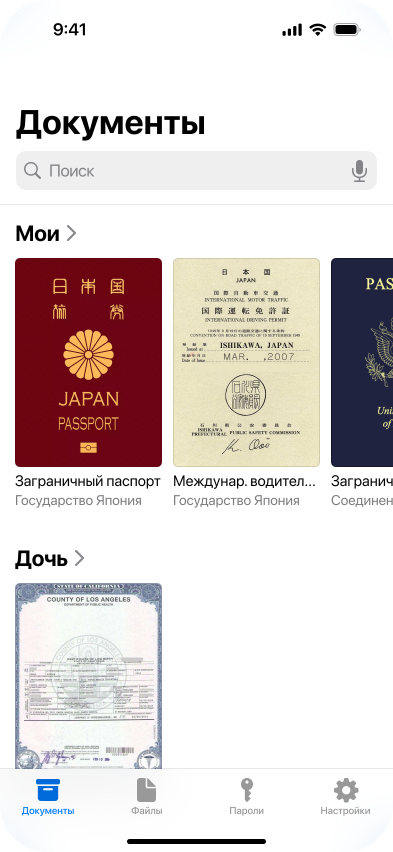
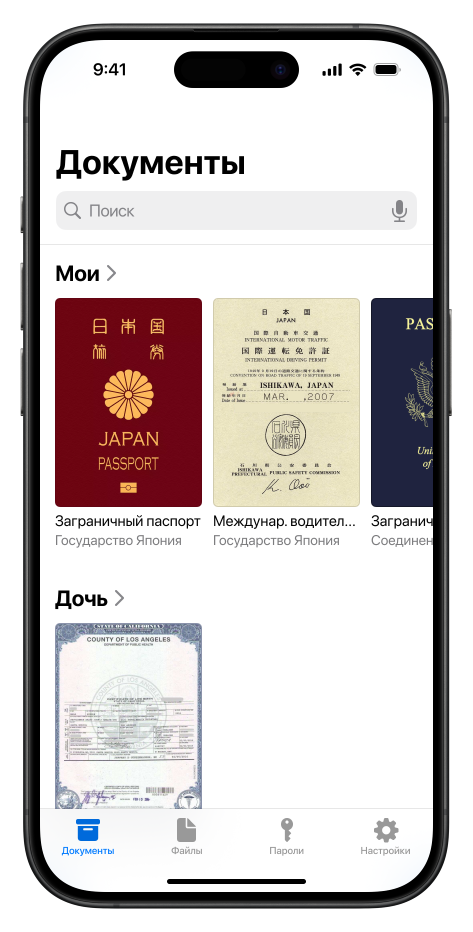
Реализовал структуру 3 фрейма

Changed region(s): [[0.0305, 0.0, 1.0, 1.0], [0.7634, 0.8545, 0.855, 0.9155], [0.8244, 0.2136, 0.855, 0.2441]]

diff --git a/index.html b/index.html
@@ -54,8 +54,9 @@
     <div class="frame-1">
       <div class="container text-center">
         <h1 class="text-white brand-title">DocSphere</h1>
-        <img src="/img/ui-1.jpg" class="phone-ui img-fluid d-block mx-auto" alt="...">
-        <img src="/img/i-phone-15-pro-black-titanium-portrait.png" class="phone-border img-fluid d-block mx-auto" alt="...">
+        <div class="phone-f1">
+          <img src="/img/ui-1.png" class="phone-ui img-fluid d-block mx-auto" alt="спасите-помогите css душнила">
+        </div>
 
         <div class="container info">
           <h1 class="text-white info-title">Всегда с собой.</h1>
@@ -68,45 +69,40 @@
     <div class="frame-2">
       <div class="container text-center card-view">
 
-        <div class="row row-cols-1 row-cols-md-2 g-4">
+        <div class="row row-cols-1 row-cols-md-2 g-4 ">
           <div class="col">
-            <div class="card">
+            <div class="card h-100 mx-auto">
               <div class="card-body">
-                <h5 class="card-title">Заголовок карточки</h5>
-                <p class="card-text">Это более длинная карта С вспомогательным текстом ниже в качестве естественного перехода к дополнительному контенту. Этот контент немного длиннее.</p>
+                <h5 class="card-title"><span style="color: #007BFF;">AES-256.</span> Безопасность заложена в ДНК.</h5>
               </div>
+              <img src="/img/card-1.svg" class="img-fluid float-start card-1" alt="...">
             </div>
           </div>
           <div class="col">
-            <div class="card">
+            <div class="card h-100 mx-auto">
               <div class="card-body">
-                <h5 class="card-title">Заголовок карточки</h5>
-                <p class="card-text">Это более длинная карта С вспомогательным текстом ниже в качестве естественного перехода к дополнительному контенту. Этот контент немного длиннее.</p>
+                <h5 class="card-title"><span style="color: #007BFF;">Цифровая подпись.</span> Ключ к Вашей жизни.</h5>
               </div>
+              <img src="/img/card-2.svg" class="img-fluid mx-auto card-2" alt="...">
             </div>
           </div>
           <div class="col">
-            <div class="card">
+            <div class="card h-100 mx-auto">
               <div class="card-body">
-                <h5 class="card-title">Заголовок карточки</h5>
-                <p class="card-text">Это более длинная карта С вспомогательным текстом ниже в качестве естественного перехода к дополнительному контенту.</p>
+                <h5 class="card-title"><span style="color: #007BFF;">Приватность.</span> Данными владеете <br>только Вы.</h5>
               </div>
+              <img src="/img/card-3.svg" class="img-fluid card-3" alt="...">
             </div>
           </div>
           <div class="col">
-            <div class="card">
+            <div class="card h-100 mx-auto">
               <div class="card-body">
-                <h5 class="card-title">Заголовок карточки</h5>
-                <p class="card-text">Это более длинная карта С вспомогательным текстом ниже в качестве естественного перехода к дополнительному контенту. Этот контент немного длиннее.</p>
+                <h5 class="card-title"><span style="color: #007BFF;">Лицо — ваш ключ ко всему.</span> Путь так и останется.</h5>
               </div>
+              <img src="/img/card-4.svg" class="img-fluid float-end card-4" alt="...">
             </div>
           </div>
         </div>
-
-          <!-- <p>AES-256. Безопасность заложена в ДНК.</p>
-          <p>Цифровая подпись. Ключ к Вашей жизни.</p>
-          <p>Приватность. Данными владеете только Вы.</p>
-          <p>Лицо — ваш ключ ко всему. Путь так и останется.</p> -->
       </div>
     </div>
 
@@ -119,6 +115,18 @@
   </main>
 
   <footer>
+    <div class="container">
+      <div class="row row-cols-1 row-cols-md-5 g-4 ">
+        <div class="col">
+          <h3>Приложение</h3>
+        </div>
+        <div class="col">
+          <h3>Поддержка</h3>
+        </div>
+        <div class="col">
+          <h3>Социальные сети</h3>
+        </div>
+    </div>
   </footer>
 
   <!-- Bootstrap JavaScript Libraries -->

diff --git a/css/style.css b/css/style.css
@@ -61,13 +61,9 @@ main {
   background: #006adb;
 }
 
-.phone-border{
-  margin-top: -892px;
-}
-
-.phone-ui {
-  margin-top: -55px;
-  border-radius: 48px;
+.phone-ui{
+  margin-top: -80px;
+  max-width: 400px;
 }
 
 .info {
@@ -126,6 +122,14 @@ main {
     font-size: 115px;
     padding-top: 50px;
   }
+
+  .card-view {
+    width: 950px;
+  }
+
+  .card {
+    max-width: 450px;
+  }
 }
 
 .info-paragraph {
@@ -157,16 +161,67 @@ main {
   background: #191A1D;
 }
 
+.col {
+  padding-left: 0px;  
+}
+
+.card-body {
+  padding: 0px;
+}
+
 .card-view {
-  padding: 105px;
-  max-width: 995px;
+  padding-top: 100px;
+  padding-bottom: 100px;
+  /* padding-left: 105px; */
+  max-width: 1130px;
 }
 
 .card {
-  max-width: 475px;
+  /* max-width: 450px; */
+  /* max-height: 420px; */
+  /* min-width: 450px; */
   border-radius: 25px;
   background: #191A1D;
   color: #fff;
+  padding: 46px 46px 46px 66px;
+  margin-left: 10px;
+}
+
+.card-title {
+  color: #FFF;
+  font-weight: 500;
+  font-size: 38px;
+  text-align: left;
+}
+
+.card-1 {
+  max-width: 210px;
+  /* margin-top: 35px;
+  margin-left: -90px; */
+  margin-bottom: -46px;
+  padding-top: 30px;
+}
+
+.card-2 {
+  max-width: 300px;
+  /* margin-top: 60px;
+  margin-bottom: 30px; */
+  margin-top: 40px;
+  margin-bottom: 20px;
+}
+
+.card-3 {
+  max-height: 350px;
+  margin-top: -168px;
+  /* margin-right: -337px; */
+  margin-left: 200px;
+  /* margin-top: -150px; */
+}
+
+.card-4 {
+  max-height: 300px;
+  margin-top: -168px;
+  margin-left: 200px;
 }
 
 /* Стили для подвала сайта */
